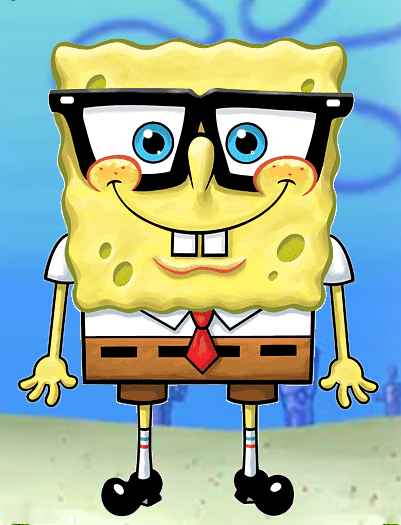
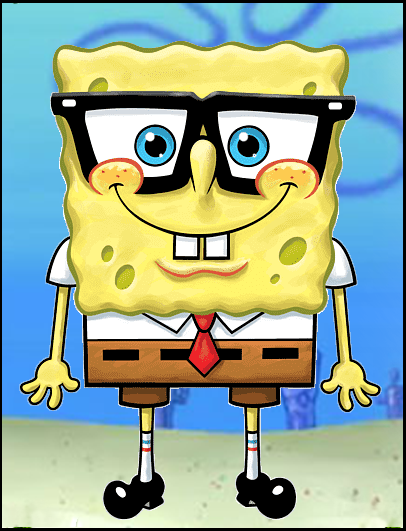
Add new picture

diff --git a/index.html b/index.html
@@ -13,11 +13,6 @@
           <div class="stackable grid">
             <div class="row">
               <div class="three wide center aligned column">
-                <style >
-                  .background {
-                   border: 5px solid #000;
-                  }
-                 </style>
                  <div class="background">
                 <p><img src="SpongeBob.png" alt="sponge" width="150px" height="200px" ></p>
               </div>

diff --git a/avatar.css b/avatar.css
@@ -3,14 +3,14 @@
 }
 
 .foreground{  
-    top: 115px;
-    left: 30px;
+    top: 110px;
+    left: 25px;
     position: absolute;
 }
 
 .background:hover~ .foreground{
     transition: linear 1s;
-    top: 115px;
-    left: 100px;
+    top: 110px;
+    left: 95px;
     position: absolute;
 }
